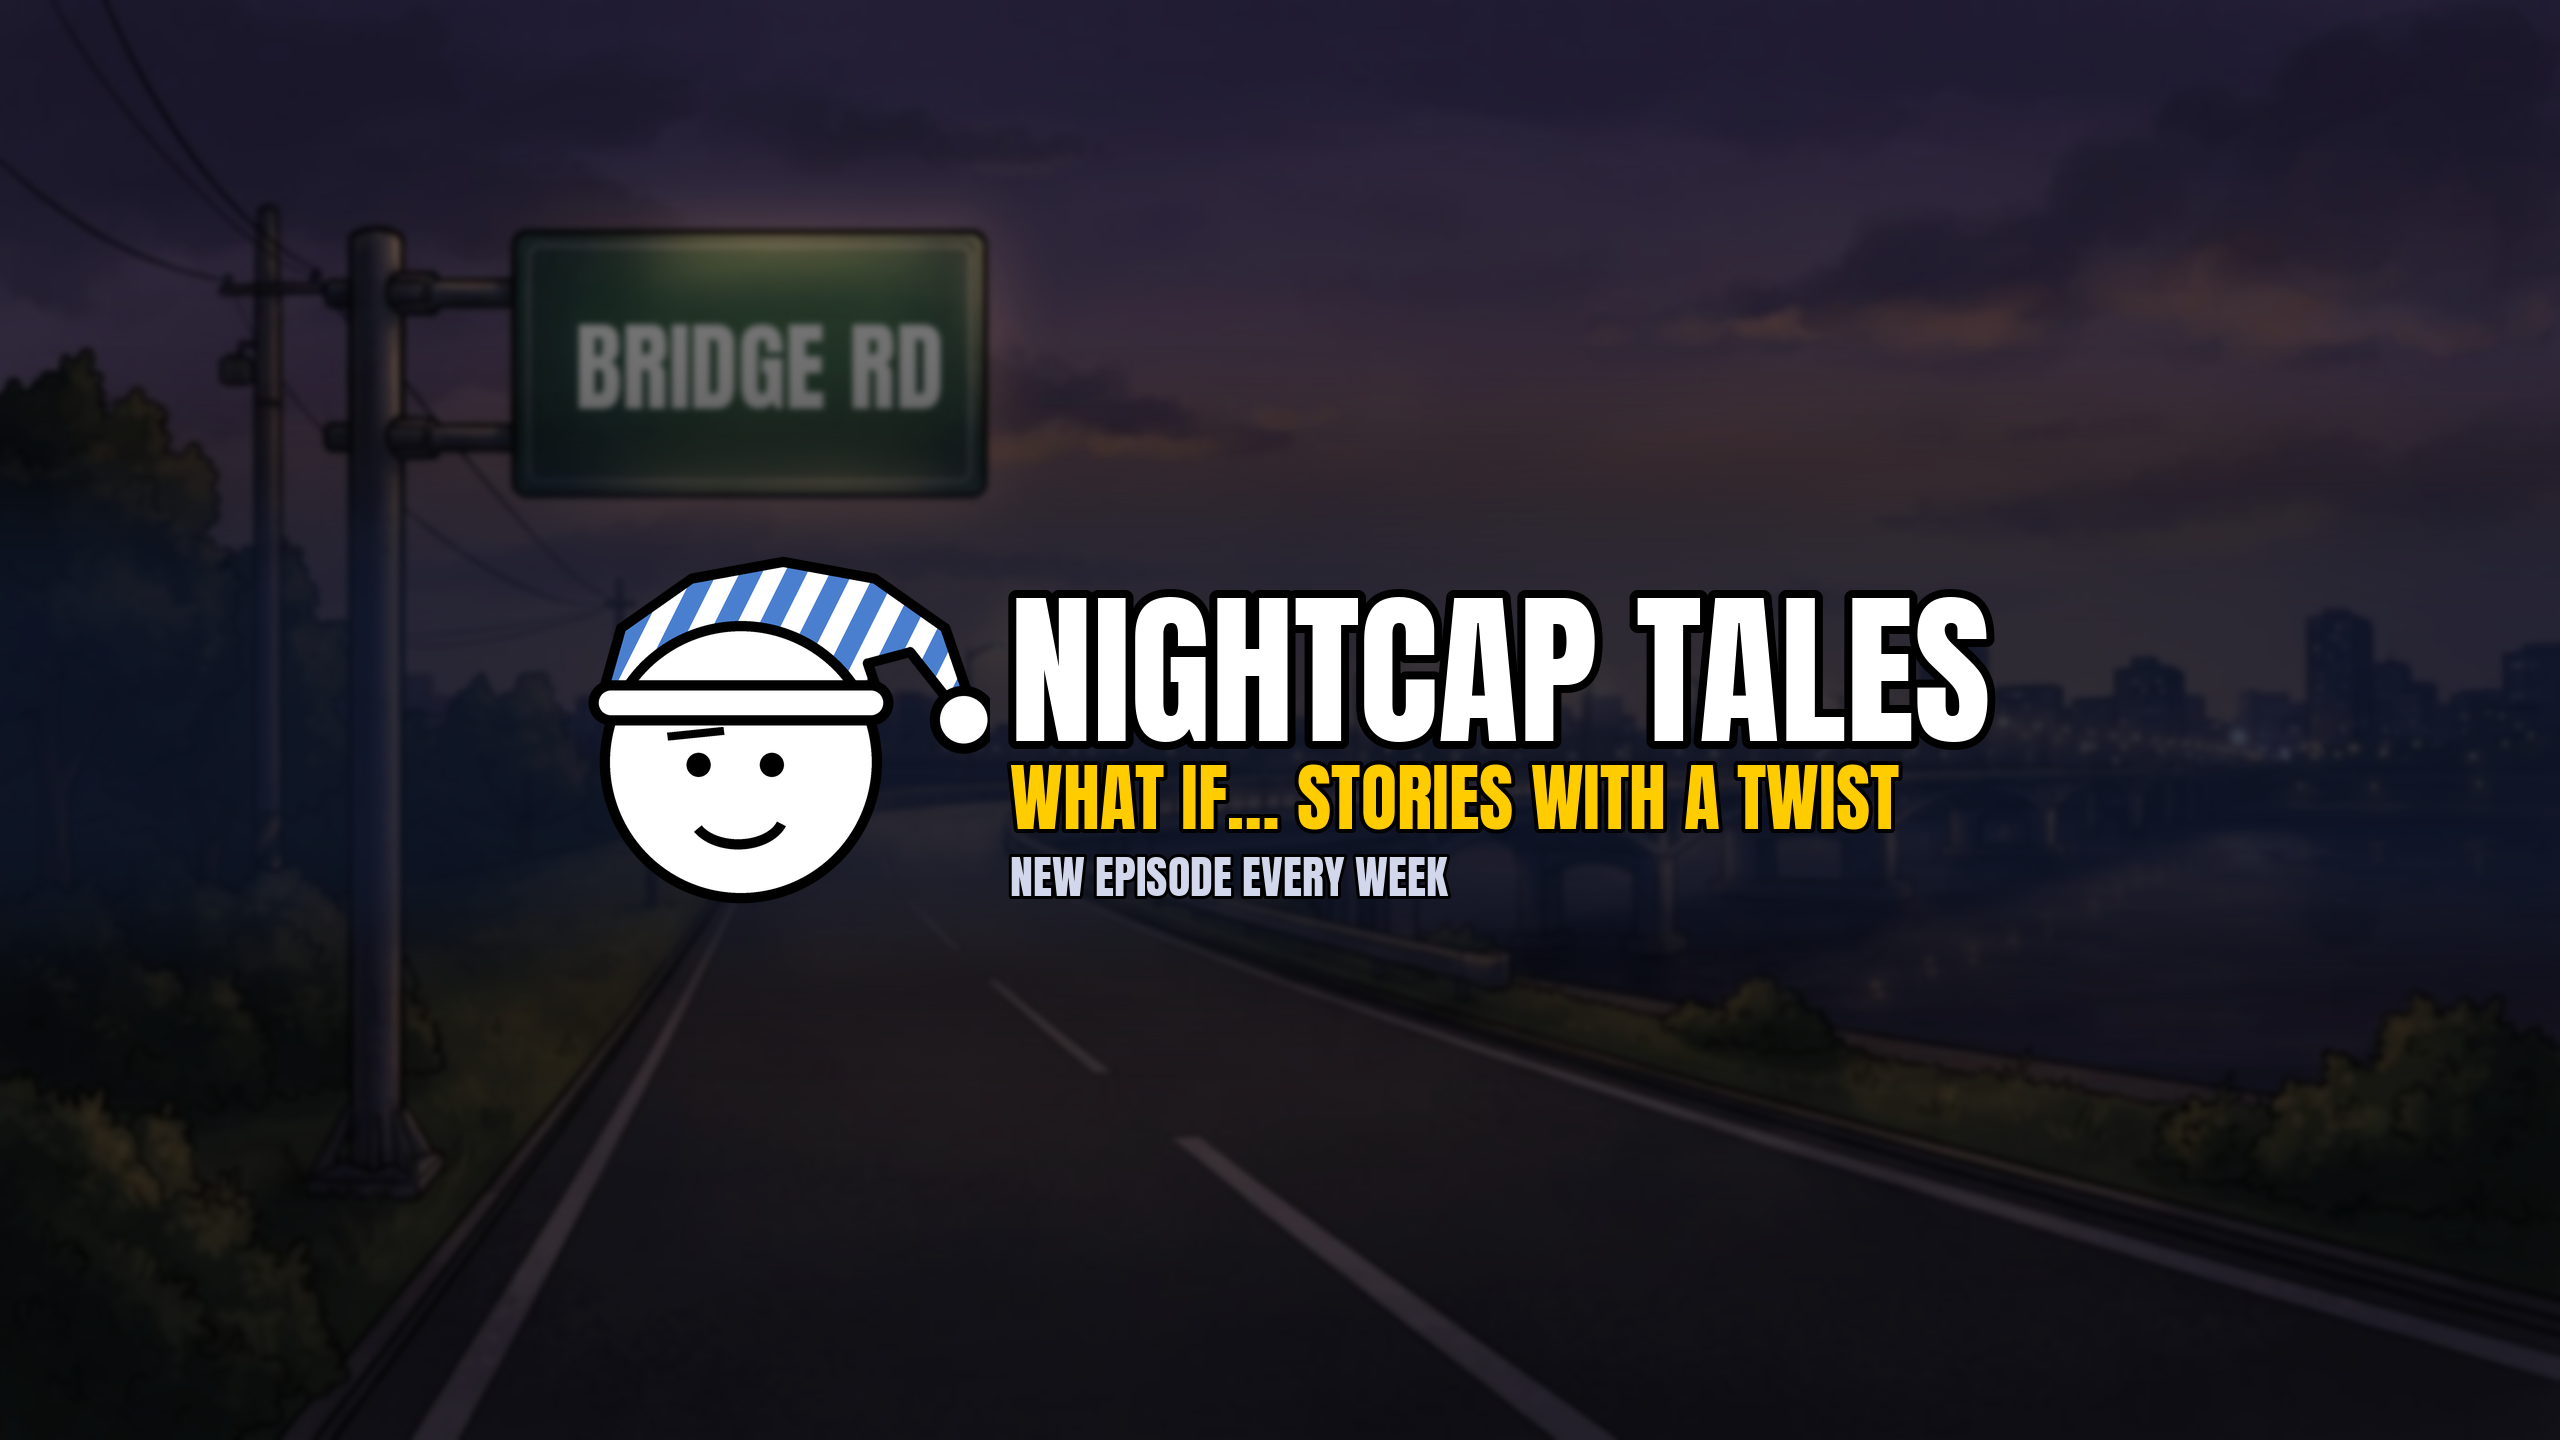
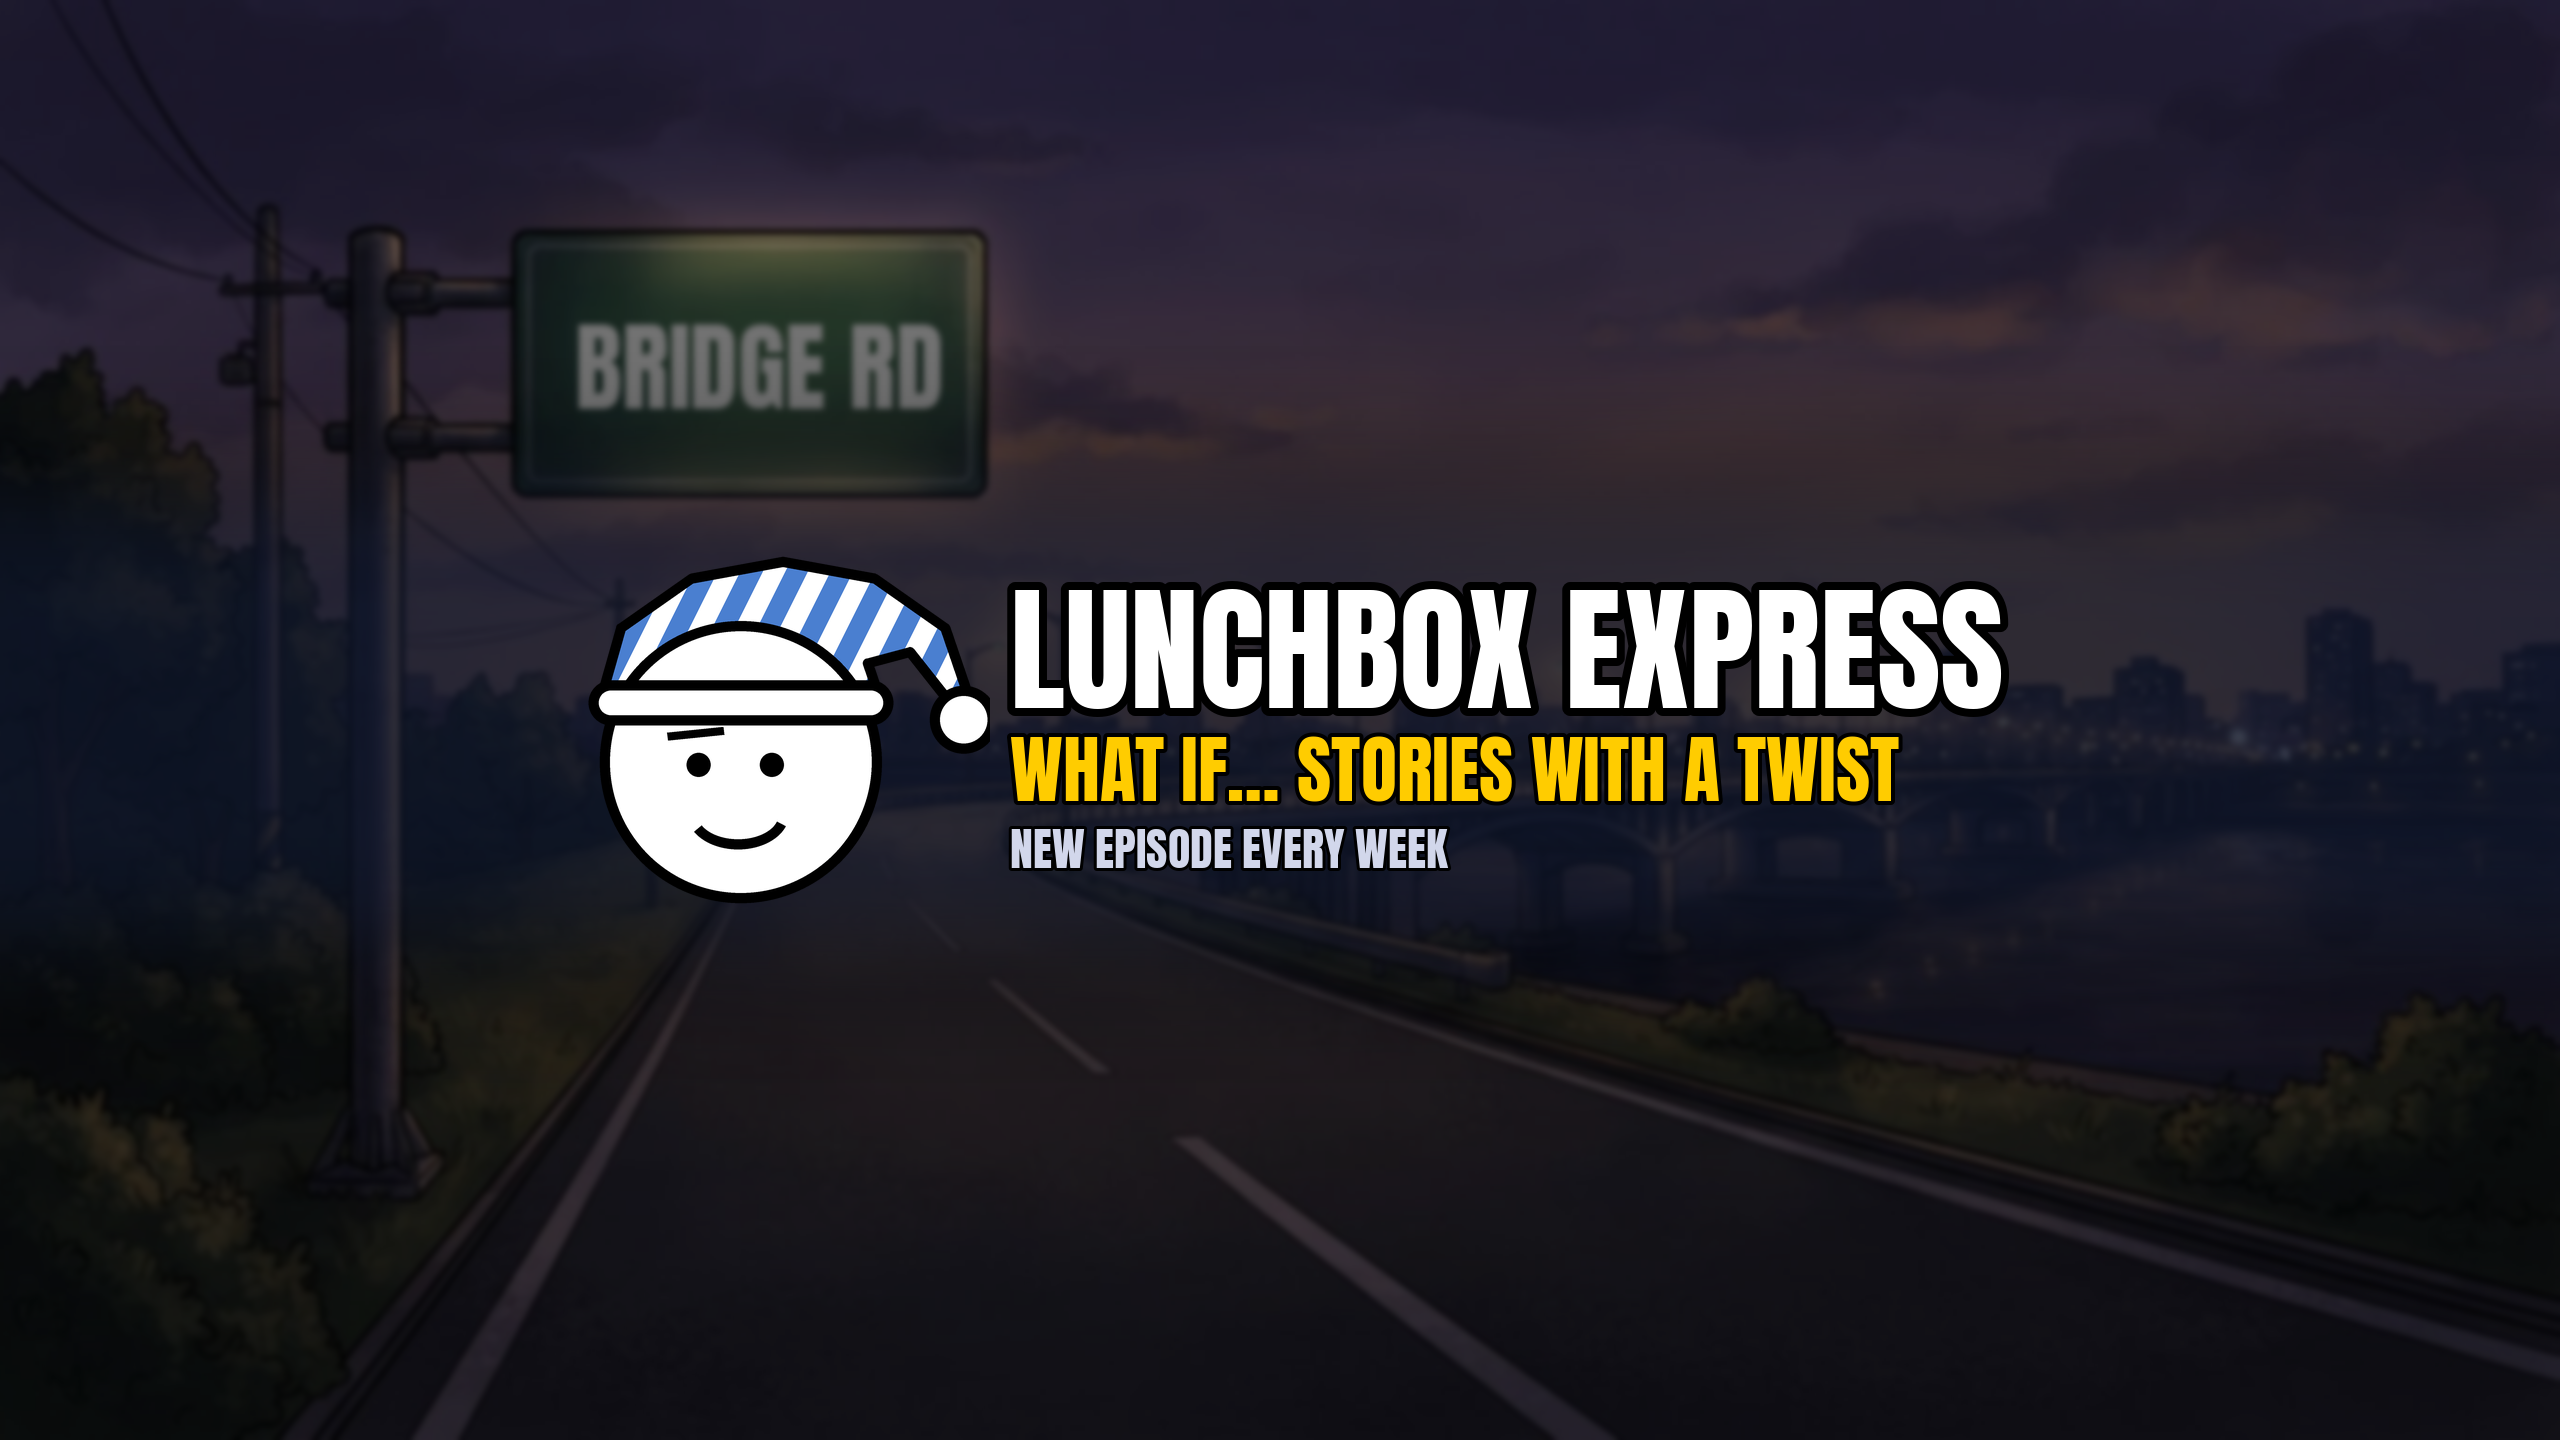
Branding: channel name LunchBox Express
Claude-Session: https://claude.ai/code/session_013PjZvumhTLtShieoVrTh3v

Changed region(s): [[0.375, 0.4062, 0.7812, 0.625]]

diff --git a/video-studio/tools/brand.py b/video-studio/tools/brand.py
@@ -11,7 +11,7 @@ from PIL import Image, ImageDraw, ImageFilter, ImageFont, ImageEnhance
 ROOT = os.path.dirname(os.path.dirname(os.path.abspath(__file__)))
 OUT = os.path.join(ROOT, "assets", "brand")
 ANTON = os.path.join(ROOT, "assets", "fonts", "Anton.ttf")
-CHANNEL = sys.argv[1] if len(sys.argv) > 1 else "Nightcap Tales"
+CHANNEL = sys.argv[1] if len(sys.argv) > 1 else "LunchBox Express"
 TAGLINE = "WHAT IF… STORIES WITH A TWIST"
 SUBLINE = "NEW EPISODE EVERY WEEK"
 NAVY, NAVY2, BLUE, YELLOW, INK, WHITE = (16, 26, 52), (38, 30, 78), (74, 127, 208), (255, 204, 0), (0, 0, 0), (255, 255, 255)

diff --git a/video-studio/PLAYBOOK.md b/video-studio/PLAYBOOK.md
@@ -2,6 +2,7 @@
 
 How we make every episode, from idea to posted on YouTube and Facebook. If something isn't written here, it isn't part of the process yet.
 
+**Channel:** **LunchBox Express** (YouTube + Facebook; branding in `assets/brand/`, rebuilt by `tools/brand.py`).
 **The show:** *What If…?*, animated "what if" stories told to the viewer as "you", starring a stick-figure hero in a striped nightcap.
 **Main format:** 16:9 YouTube video, 8–12 min.
 **Spin-off format:** 9:16 Shorts / Reels, 20–60 s, cut from each episode.
